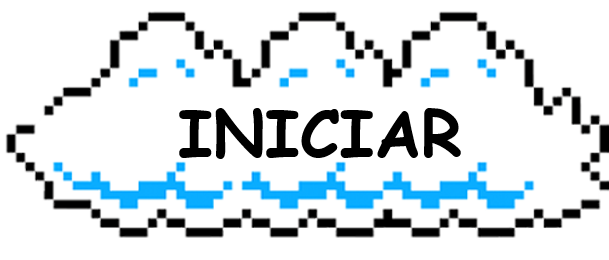
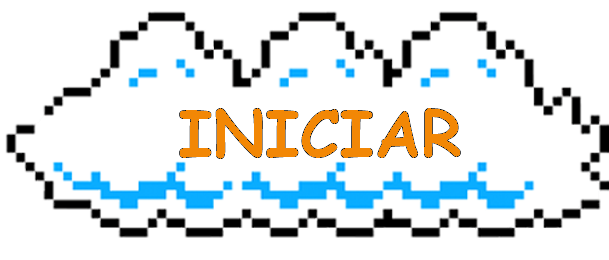
fix

Changed region(s): [[0.2808, 0.4, 0.7488, 0.6154], [0.7488, 0.5846, 0.78, 0.6154]]

diff --git a/script-jogo1.js b/script-jogo1.js
@@ -19,6 +19,7 @@ document.addEventListener('DOMContentLoaded', () => {
 
     // Inicialmente oculta os elementos 'personagem' e 'pipe'
     personagem.style.display = 'none';
+    
     pipe.style.display = 'none';
     restartButton.style.display = 'none'; // Inicialmente oculta o botão de reinício
 
@@ -86,10 +87,16 @@ document.addEventListener('DOMContentLoaded', () => {
                 personagem.style.animation = 'none';
                 personagem.style.bottom = `${personagemPosition}px`;
 
-                personagem.src = 'game-over.png';
-                personagem.style.width = '95px';
-                personagem.style.marginLeft = '50px';
-
+                personagem.src = 'explosion.gif';
+                personagem.style.width = '905px';
+                personagem.style.marginLeft = '-300px';
+                personagem.style.marginBottom = '-30px';
+                setTimeout(() => {
+                    personagem.src = 'imagem-original.png'; // Substitua pelo caminho da imagem original
+                    personagem.style.width = 'initial';
+                    personagem.style.marginLeft = 'initial';
+                    
+                }, 2800);
                 clearInterval(loop);
                 clearInterval(intervalId);
                 clearInterval(animationInterval); // Para a atualização da duração da animação
@@ -98,6 +105,7 @@ document.addEventListener('DOMContentLoaded', () => {
                 backgroundMusic.pause();
                 backgroundMusic.currentTime = 0; // Reinicia a música de fundo
                 gameOverSound.play(); // Reproduz a música de game over
+                jumpSound.volume = 0;
 
                 // Mostrar o botão de reinício somente quando o jogo estiver em game over
                 restartButton.style.display = 'block';

diff --git a/jogo1.css b/jogo1.css
@@ -1,8 +1,21 @@
+
+:root {
+    --cor1: #F2059F;
+    --cor2: #0E0D40;
+    --cor3: #30D98A;
+    --cor4: #F2B705;
+    --cor5: #F28705;
+    --cor6: #ffffff;
+    --cor7: #000000;  
+    --cor8: #0e0d40ec;  
+    
+}
 /* Reset básico e box-sizing para garantir que as dimensões sejam consistentes */
 * {
     margin: 0;
     padding: 0;
     box-sizing: border-box;
+    color: var(--cor5);
 }
 
 /* Estilos gerais */
@@ -35,10 +48,10 @@ body {
 .game-board {     
     width: 100%; /* Ajusta a largura do jogo */
     height: 100vh; /* Ajusta a altura do jogo */
-    border-bottom: 65px solid rgb(0, 98, 0);
+    border-bottom: 65px solid var(--cor5);
     position: relative;
     overflow: hidden;
-    background: linear-gradient(rgb(149, 179, 253), rgb(217, 255, 253));    
+    background: linear-gradient(var(--cor2), var(--cor7));    
 }
 
 #pipe {
@@ -50,8 +63,8 @@ body {
 
 #personagem {
     position: absolute;
-    width: 190px;
-    bottom: 0;
+    width: 190px;    
+    bottom: -30px;
     left: -20px;
 }
 
@@ -64,6 +77,7 @@ body {
     margin-top: -10px;
     width: 500px;
     animation: clouds 30s infinite linear;
+    opacity: 0.5;
 }
 
 .clouds1 {
@@ -71,6 +85,7 @@ body {
     margin-top: -10px;
     width: 750px;
     animation: clouds1 50s infinite linear;
+    opacity: 0.6;
 }
 
 @keyframes clouds {
@@ -130,7 +145,7 @@ body {
     transform: translate(-50%, -50%);
     font-size: 48px;
     font-weight: bold;
-    color: black;    
+    color: var(--cor5);    
 }
 
 #restartButton {
@@ -156,4 +171,17 @@ body {
 button{
     background: none;
     border: none;
+}
+.gif-container {
+    display: none;
+}
+
+@keyframes showGif {
+    0% { display: block; }
+    100% { display: none; }
+}
+
+.gif-container.show {
+    display: block;
+    animation: showGif 2s forwards;
 }

diff --git a/jogo1.html b/jogo1.html
@@ -37,11 +37,11 @@
                 <div id="pontuacao"></div>
                 <audio id="jumpSound" src="pulo-jogo.mp3"></audio>
                 <audio id="backgroundMusic" src="musica-jogo.mp3" loop></audio>
-                <audio id="gameOverSound" src="game-over-jogo-som.mp3"></audio>
+                <audio id="gameOverSound" src="medium-explosion-40472.mp3"></audio>
 
                 <img src="clouds.png" alt="nuvens do jogo" class="clouds1">
                 <img src="clouds.png" alt="nuvens do jogo" class="clouds">
-                <img src="mario.gif" alt="Imagem do personagem" id="personagem">
+                <img src="evitando-processo.gif" alt="" id="personagem">
                 <img src="pipe.png" alt="Imagem tubo jogo" id="pipe">
                 <button id="startButton" class="botaooff"><img src="botao-jogo-inicio.png" alt="Botão iniciar jogo" id="botao-jogo-inicio"></button>
                 <button id="restartButton" class="botaooff"><img src="botao-jogo-reiniciar.png" alt="Botão de reiniciar" id="botao-jogo-reiniciar"></button>

diff --git a/index.html b/index.html
@@ -122,7 +122,7 @@
             </div>
 
             <div class="texto">
-                <p> <h1 id="titulo-jogo">Corrida Encanada:</h1> Experimente a emoção de um clássico com um toque moderno! Nesse jogo, um encanador está correndo por uma fase repleta de canos. Sua missão é simples: pular os canos para evitar bater e continuar avançando.</p> <br>
+                <p> <h1 id="titulo-jogo">Corrida Encanada:</h1> Experimente a emoção de um clássico com um toque moderno! Nesse jogo, um explorador está correndo por uma fase repleta de canos. Sua missão é simples: pular os canos para evitar bater e continuar avançando.</p> <br>
                 
                 <h1>Como Jogar?</h1>
                     
